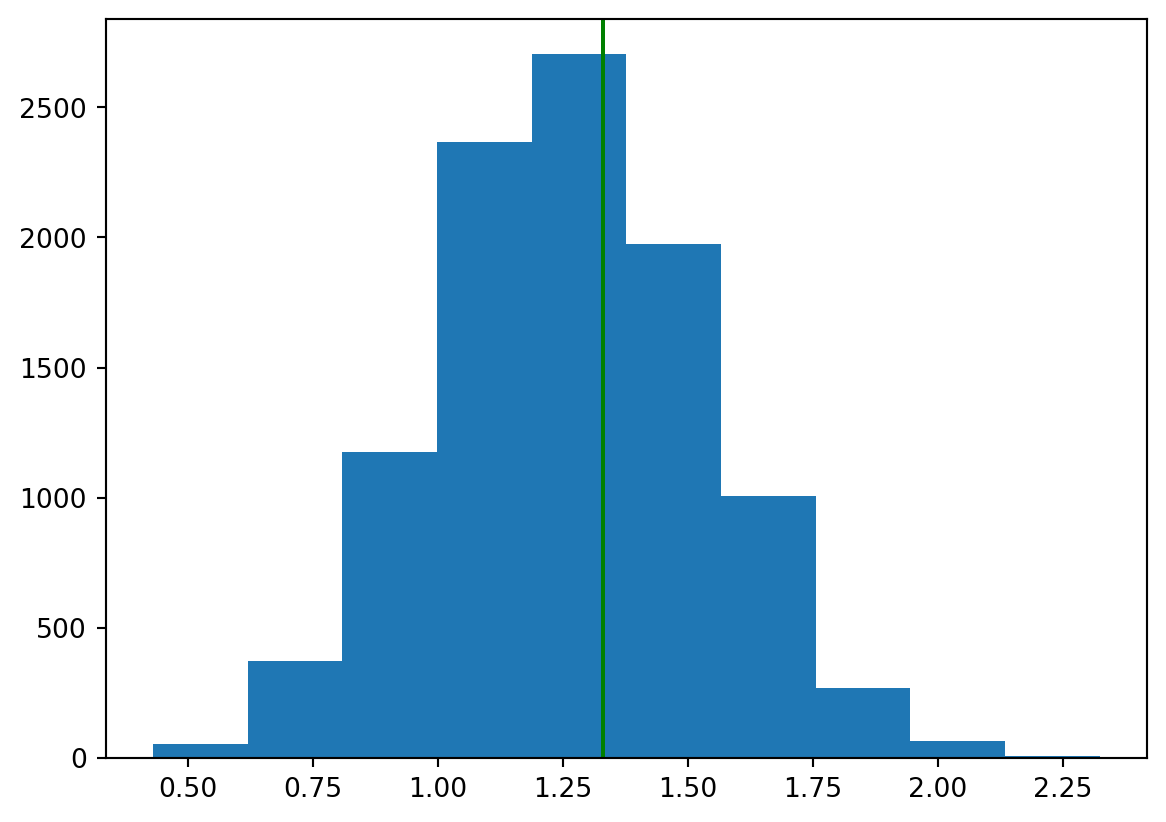
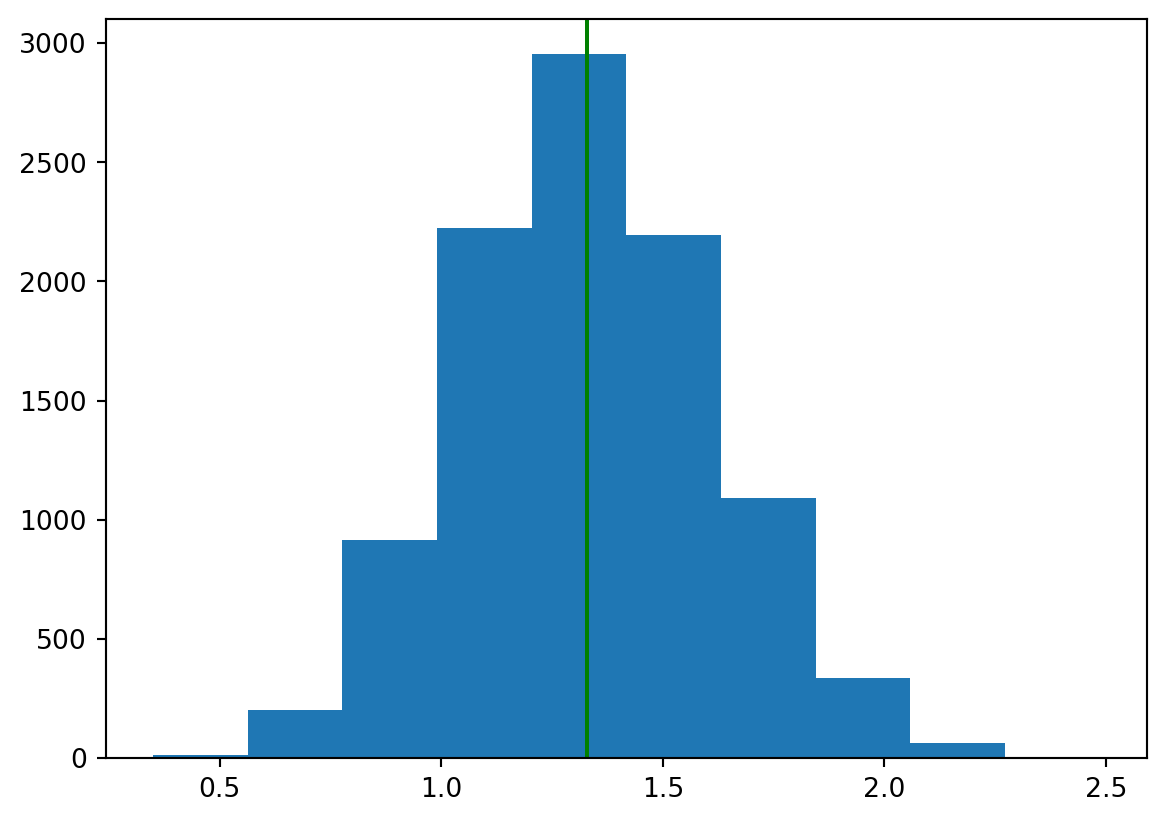
123123

diff --git a/docs/posts/hw5/hw5.html b/docs/posts/hw5/hw5.html
@@ -204,7 +204,7 @@ pre > code.sourceCode > span > a:first-child::before { text-decoration: underlin
 <p><strong>균일분포 (3, 7)에서 20개의 표본 뽑아서 분산 추정하기!</strong></p>
 <section id="패키지-불러오기" class="level1">
 <h1>패키지 불러오기</h1>
-<div id="9b94c910" class="cell" data-execution_count="1">
+<div id="704ef4ea" class="cell" data-execution_count="1">
 <div class="sourceCode cell-code" id="cb1"><pre class="sourceCode python code-with-copy"><code class="sourceCode python"><span id="cb1-1"><a href="#cb1-1" aria-hidden="true" tabindex="-1"></a><span class="im">import</span> pandas <span class="im">as</span> pd</span>
 <span id="cb1-2"><a href="#cb1-2" aria-hidden="true" tabindex="-1"></a><span class="im">import</span> numpy <span class="im">as</span> np</span>
 <span id="cb1-3"><a href="#cb1-3" aria-hidden="true" tabindex="-1"></a><span class="im">import</span> seaborn <span class="im">as</span> sns</span>
@@ -214,7 +214,7 @@ pre > code.sourceCode > span > a:first-child::before { text-decoration: underlin
 </section>
 <section id="표본뽑기" class="level1">
 <h1>표본뽑기</h1>
-<div id="01d72c7f" class="cell" data-execution_count="2">
+<div id="313020f7" class="cell" data-execution_count="2">
 <div class="sourceCode cell-code" id="cb2"><pre class="sourceCode python code-with-copy"><code class="sourceCode python"><span id="cb2-1"><a href="#cb2-1" aria-hidden="true" tabindex="-1"></a>x <span class="op">=</span> uniform.rvs(loc <span class="op">=</span> <span class="dv">3</span>, scale <span class="op">=</span> <span class="dv">4</span>, size <span class="op">=</span> <span class="dv">20</span><span class="op">*</span><span class="dv">10000</span>)</span>
 <span id="cb2-2"><a href="#cb2-2" aria-hidden="true" tabindex="-1"></a>x <span class="op">=</span> x.reshape(<span class="op">-</span><span class="dv">1</span>,<span class="dv">20</span>)</span></code><button title="Copy to Clipboard" class="code-copy-button"><i class="bi"></i></button></pre></div>
 </div>
@@ -224,8 +224,8 @@ pre > code.sourceCode > span > a:first-child::before { text-decoration: underlin
 <p>n-1로 나눈 것을 s_2, n으로 나눈 것을 k_2로 정의하고, s_2의 분포와 k_2의 분포를 그려주세요! (10000개 사용)</p>
 <section id="s_2-구하고-모분산-막대-그리기기" class="level2">
 <h2 class="anchored" data-anchor-id="s_2-구하고-모분산-막대-그리기기">s_2 구하고 모분산 막대 그리기기</h2>
-<div id="1241a691" class="cell" data-execution_count="3">
-<div class="sourceCode cell-code" id="cb3"><pre class="sourceCode python code-with-copy"><code class="sourceCode python"><span id="cb3-1"><a href="#cb3-1" aria-hidden="true" tabindex="-1"></a>s_2 <span class="op">=</span> x.var(axis <span class="op">=</span> <span class="dv">1</span>, ddof <span class="op">=</span> <span class="dv">0</span>)</span>
+<div id="da3a83e6" class="cell" data-execution_count="3">
+<div class="sourceCode cell-code" id="cb3"><pre class="sourceCode python code-with-copy"><code class="sourceCode python"><span id="cb3-1"><a href="#cb3-1" aria-hidden="true" tabindex="-1"></a>s_2 <span class="op">=</span> x.var(axis <span class="op">=</span> <span class="dv">1</span>, ddof <span class="op">=</span> <span class="dv">1</span>)</span>
 <span id="cb3-2"><a href="#cb3-2" aria-hidden="true" tabindex="-1"></a>plt.hist(s_2)</span>
 <span id="cb3-3"><a href="#cb3-3" aria-hidden="true" tabindex="-1"></a>plt.axvline(x.var(), color<span class="op">=</span><span class="st">'green'</span>)</span>
 <span id="cb3-4"><a href="#cb3-4" aria-hidden="true" tabindex="-1"></a>plt.show()</span>
@@ -244,7 +244,7 @@ pre > code.sourceCode > span > a:first-child::before { text-decoration: underlin
 </section>
 <section id="k_2-구하고-모분산-막대그리기기" class="level2">
 <h2 class="anchored" data-anchor-id="k_2-구하고-모분산-막대그리기기">k_2 구하고 모분산 막대그리기기</h2>
-<div id="533db31b" class="cell" data-execution_count="4">
+<div id="e7d16ec2" class="cell" data-execution_count="4">
 <div class="sourceCode cell-code" id="cb5"><pre class="sourceCode python code-with-copy"><code class="sourceCode python"><span id="cb5-1"><a href="#cb5-1" aria-hidden="true" tabindex="-1"></a>k_2 <span class="op">=</span> x.var(axis <span class="op">=</span> <span class="dv">1</span>, ddof <span class="op">=</span> <span class="dv">0</span>)</span>
 <span id="cb5-2"><a href="#cb5-2" aria-hidden="true" tabindex="-1"></a>plt.hist(k_2)</span>
 <span id="cb5-3"><a href="#cb5-3" aria-hidden="true" tabindex="-1"></a>plt.axvline(x.var(), color<span class="op">=</span><span class="st">'green'</span>)</span>

diff --git a/docs/blog.html b/docs/blog.html
@@ -202,7 +202,7 @@ window.Quarto = {
 
 <div class="quarto-listing quarto-listing-container-default" id="listing-listing">
 <div class="list quarto-listing-default">
-<div class="quarto-post image-right" data-index="0" data-categories="bigdata" data-listing-date-sort="1722178800000" data-listing-file-modified-sort="1722259719969" data-listing-date-modified-sort="NaN" data-listing-reading-time-sort="1" data-listing-word-count-sort="101">
+<div class="quarto-post image-right" data-index="0" data-categories="bigdata" data-listing-date-sort="1722178800000" data-listing-file-modified-sort="1722259869683" data-listing-date-modified-sort="NaN" data-listing-reading-time-sort="1" data-listing-word-count-sort="101">
 <div class="thumbnail">
 <p><a href="./posts/hw5/hw5.html" class="no-external"></a></p><a href="./posts/hw5/hw5.html" class="no-external">
 <p class="card-img-top"><img src="posts\hw5\hw5_files\figure-html\cell-4-output-1.png"  class="thumbnail-image card-img"/></p>
